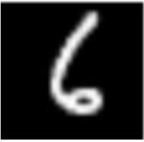
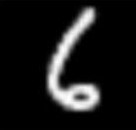
Modified Zoom Function

diff --git a/milestone1.py b/milestone1.py
@@ -1,4 +1,3 @@
-from cmath import inf
 import cv2
 import numpy as np
 import random
@@ -9,14 +8,14 @@ import os
 #Functions for Augmentations
 
 
-def resize(dir,path):
+def resize(path,dir):
     plt.close()
     fig = plt.figure(figsize=(16, 8))
-    imagePath = dir
+    imagePath = path
     image = cv2.imread(imagePath)
     (h,w) = image.shape[:2]
     aspect = w/h
-    os.chdir(path)
+    os.chdir(dir)
     for i in range(15):
         ratio = random.uniform(0.2,(1080/h))
 
@@ -32,13 +31,13 @@ def resize(dir,path):
 
     plt.show()
 
-def translate(dir,path):
+def translate(path,dir):
     plt.close()
     fig = plt.figure(figsize=(16, 8))
-    imagePath = dir
+    imagePath = path
     image = cv2.imread(imagePath)
     (h,w) = image.shape[:2]
-    os.chdir(path)
+    os.chdir(dir)
     for i in range(15):
         translationMatrix = np.float32([[1,0, random.randint(10,(w//3.3))],[0,1,random.randint(10,(h//2.67))]])
         movedImage = cv2.warpAffine(image, translationMatrix, (image.shape[1],image.shape[0]))
@@ -47,13 +46,13 @@ def translate(dir,path):
         plt.imshow(movedImage)
     plt.show()
     
-def rotate(dir,path):
+def rotate(path,dir):
     plt.close()
     fig = plt.figure(figsize=(16, 8))
-    imagePath = dir
+    imagePath = path
     image = cv2.imread(imagePath)
     center = tuple(np.array(image.shape[1::-1]) / 2)
-    os.chdir(path)
+    os.chdir(dir)
     for i in range(15):
         angle = random.randint(-180,180)
         rotationMatrix = cv2.getRotationMatrix2D(center, angle, 1.0)
@@ -63,46 +62,38 @@ def rotate(dir,path):
         plt.imshow(rotatedImage)
     plt.show()
 
-def flip(dir,path):
+def flip(path,dir):
     plt.close()
     fig = plt.figure(figsize=(16, 8))
-    imagePath = dir
+    imagePath = path
     image = cv2.imread(imagePath)
-    os.chdir(path)
+    os.chdir(dir)
     for i in range(15):
-        choice = random.randint(1,3)
-        if choice == 1:
-            flipped = cv2.flip(image, 1)
-            cv2.imwrite('New_Image{} .jpg'.format(random.randint(1,1000000000)), flipped)
-            fig.add_subplot(3, 5, i+1)
-            plt.imshow(flipped)
-            #cv2.imshow("Flipped Horizontally", flipped)
-        elif choice == 2:
-            flipped = cv2.flip(image, 0) 
-            cv2.imwrite('New_Image{} .jpg'.format(random.randint(1,1000000000)), flipped)
-            fig.add_subplot(3, 5, i+1)
-            plt.imshow(flipped)
-            #cv2.imshow("Flipped Vertically", flipped) 
-        elif choice == 3:
-            flipped = cv2.flip(image, -1) 
-            cv2.imwrite('New_Image{} .jpg'.format(random.randint(1,1000000000)), flipped)
-            fig.add_subplot(3, 5, i+1)
-            plt.imshow(flipped)
+        choice = random.randint(-1,1)
+        flipped = cv2.flip(image, choice)
+        cv2.imwrite('New_Image{} .jpg'.format(random.randint(1,1000000000)), flipped)
+        fig.add_subplot(3, 5, i+1)
+        plt.imshow(flipped)
     plt.show()
      
-def zoom(dir,path):
+def zoom(path,dir):
     plt.close()
     fig = plt.figure(figsize=(16, 8))
-    imagePath = dir
+    imagePath = path
     image = cv2.imread(imagePath)
-    h = image.shape[0]
-    os.chdir(path)
+    center = tuple(np.array(image.shape[1::-1]) / 2)
+    (h1,w1) = image.shape[:2]
+    os.chdir(dir)
     for i in range(15):
-        zoom_factor = random.uniform((1080/h),4)
-        Zoomed = cv2.resize(image, None, fx=zoom_factor, fy=zoom_factor)
-        cv2.imwrite('New_Image{} .jpg'.format(random.randint(1,1000000000)), Zoomed)
+        zoom_factor = random.uniform(1.2,2)
+        zoomed = cv2.resize(image, None, fx=zoom_factor, fy=zoom_factor, interpolation=cv2.INTER_CUBIC)
+        (h2,w2) = zoomed.shape[:2]
+        diff_h = (h2-h1)//2
+        diff_w = (w2-w1)//2
+        cropped = zoomed[ diff_h : h2 - diff_h , diff_w : w2 - diff_w]
+        cv2.imwrite('New_Image{} .jpg'.format(random.randint(1,1000000000)), cropped)
         fig.add_subplot(3, 5, i+1)
-        plt.imshow(Zoomed)
+        plt.imshow(cropped) 
     plt.show()
 
         

diff --git a/gui.py b/gui.py
@@ -14,7 +14,7 @@ main.geometry("500x300")
 def open_file():
     global dir
     global imgdir
-    image = filedialog.askopenfile(mode='r', filetypes=[('Image Files', ['.jpeg', '.jpg', '.png', '.gif', '.tiff', '.tif', '.bmp'])])
+    image = filedialog.askopenfile(mode='r', filetypes=[('Image Files', ['.jpeg', '.jpg', '.png', '.gif', '.tiff', '.tif', '.bmp', 'svg'])])
     imgdir = os.path.dirname(image.name)
     dir = image.name
 
